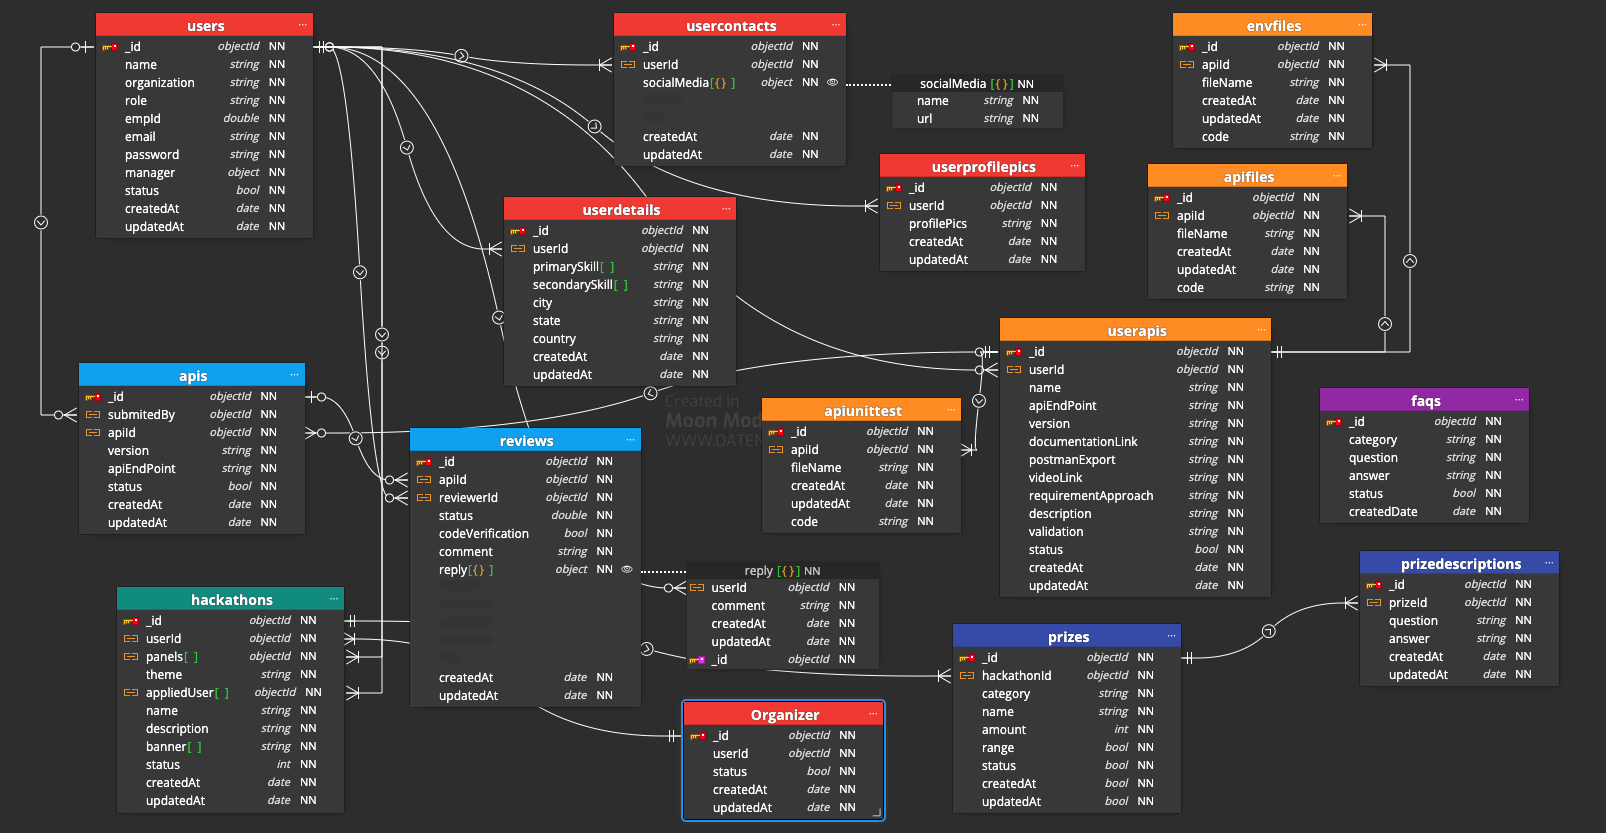
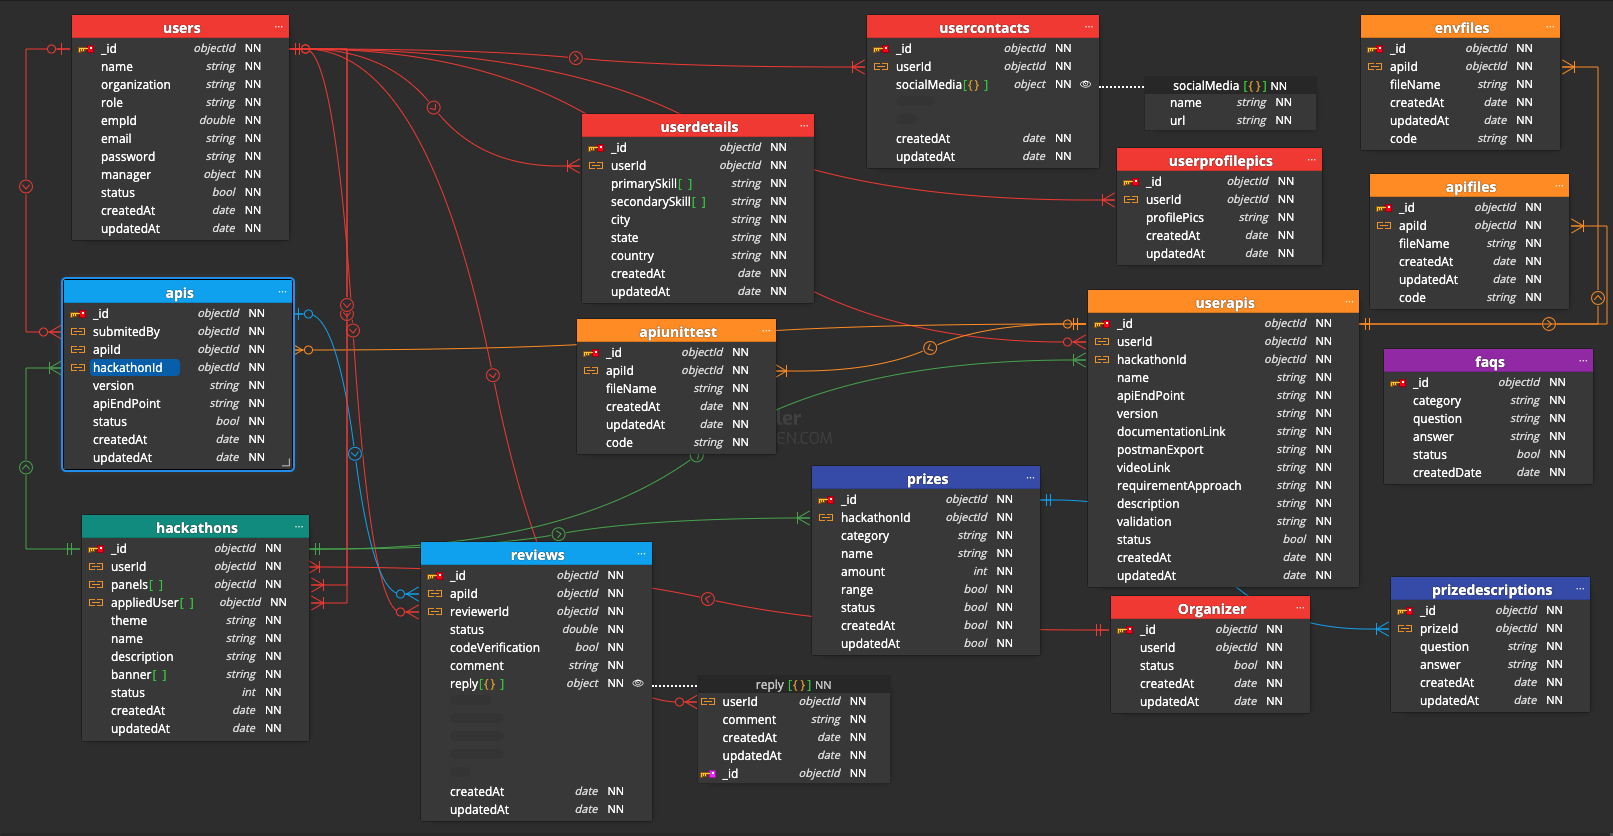
Change Diagram

diff --git a/server/modules/code/models.js b/server/modules/code/models.js
@@ -8,11 +8,13 @@ const apis = {
     _id: { type: objectId, auto: true },
     submitedBy: { type: objectId, required: true },
     apiId: { type: objectId, required: true },
+    hackathonId: { type: objectId, required: true },
     version: { type: String, required: true },
     apiEndPoint: { type: String, required: true },
+    apiStatus: { type: Number, default: 0 },
+    status: { type: Boolean, default: 1 },
     createdAt: Date,
-    updatedAt: Date,
-    status: { type: Boolean, default: 1 }
+    updatedAt: Date
 };
 const apisSchema = new Schema(apis, { versionKey: false, timestamps: true });
 

diff --git a/server/modules/code/controller.js b/server/modules/code/controller.js
@@ -64,4 +64,21 @@ router.post("/submitApi", checkApiExist, getApiInfo, async (req, res) => {
     }
 });
 
+
+router.put('/getSubmissionDetails/:id', async (req, res) => {
+    try {
+        const id = req.params.id;
+        const body = req.body;
+        const data = await Models.Hackathon.findOneAndUpdate({ _id: id }, body);
+        if (data) {
+            res.json({
+                success: true,
+                data: data
+            });
+        };
+    } catch (error) {
+        res.send(error);
+    }
+});
+
 module.exports = router;

diff --git a/server/modules/userApi/models.js b/server/modules/userApi/models.js
@@ -7,6 +7,7 @@ const objectId = Schema.ObjectId;
 const apis = {
     _id: { type: objectId, auto: true },
     userId: { type: objectId, required: true },
+    hackathonId: { type: objectId, required: true },
     name: { type: String, required: true },
     apiEndPoint: { type: String, required: true },
     version: { type: String, required: true },

diff --git a/server/modules/hackathon/models.js b/server/modules/hackathon/models.js
@@ -7,8 +7,8 @@ const hackathon = {
     _id: { type: objectId, auto: true },
     userId: { type: objectId },
     panels: [{ type: objectId }],
-    theme: { type: String },
     appliedUser: [{ type: objectId }],
+    theme: { type: String },
     name: { type: String },
     description: { type: String },
     banner: [{ type: String }],
